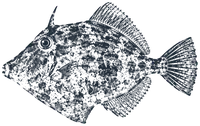
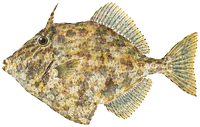
新しいアプリアイコン（ChatGPTで作成・4ツール共通の紺地）、魚拓アイコンをカラーに

diff --git a/index.html b/index.html
@@ -337,7 +337,7 @@
   <p class="credit">
     気象・海象データ：Powered by <a href="https://open-meteo.com/" target="_blank" rel="noopener">Open-Meteo.com</a>（<a href="https://creativecommons.org/licenses/by/4.0/" target="_blank" rel="noopener">CC BY 4.0</a>）<br>
     潮汐データ：<a href="https://tide736.net/" target="_blank" rel="noopener">tide736.net</a>（気象庁 潮位表をもとに算出）<br>
-    <span style="opacity:.7">版 2026-10-23 v13（魚拓アイコン・水深マップへのリンク・折りたたみ）</span>
+    <span style="opacity:.7">版 2026-10-23 v14（カラー魚拓・新しいアプリアイコン）</span>
   </p>
 </div>
 

diff --git a/sw.js b/sw.js
@@ -1,7 +1,7 @@
 // カヤック釣果予報 サービスワーカー：アプリの外枠をキャッシュし、電波の弱い出艇地点でも起動できるようにする。
 // アプリを更新したら CACHE の番号を上げる（古いキャッシュを破棄するため）。
 // ※予報データ(Open-Meteo/tide736)は別オリジンなのでキャッシュせず、常に最新をネットから取る。
-const CACHE = "fish-forecast-v10";
+const CACHE = "fish-forecast-v11";
 const ASSETS = [
   "./", "./index.html", "./manifest.webmanifest", "./stations.js",
   "./icon-192.png", "./icon-512.png", "./icon-180.png",

diff --git a/gyotaku/cut.py b/gyotaku/cut.py
@@ -1,10 +1,10 @@
-"""ChatGPTで作った魚拓の4匹シート（2×2）を、1匹ずつの透明PNGに切り分ける。
+"""ChatGPTで作ったカラー魚拓の4匹シート（2×2）を、1匹ずつの透明WebPに切り分ける。
 
-使い方: python3 cut.py   （raw/sheetN.png があるぶんだけ処理する）
-出力:   <魚のid>.webp（墨の部分だけ残し、白い背景は透明にする）
+使い方: python3 cut.py   （raw/colorN.png があるぶんだけ処理する）
+出力:   <魚のid>.webp（白い紙の部分は透明にし、魚の色はそのまま残す）
 """
 from pathlib import Path
-from PIL import Image, ImageOps
+from PIL import Image
 
 HERE = Path(__file__).parent
 # シートごとの並び（左上・右上・左下・右下）。釣果予報の魚のidと同じ名前にする
@@ -14,38 +14,48 @@ SHEETS = {
     3: ["madai", "suzuki", "chinu", "kamasu"],
     4: ["mebaru", "kawahagi", "maika", "akamutsu"],
 }
-INK = (28, 39, 51)        # 墨の色（ツールの文字色に合わせた濃紺寄りの黒）
-OUT_W = 200               # 出力の横幅（表示は約90pxだが、高精細画面用に2倍強）
+OUT_W = 200   # 出力の横幅（表示は約90pxだが、高精細画面用に2倍強）
+
+
+def unpaper(cell):
+    """白い紙に近い所ほど透明にし、色は紙の白さを取り除いた本来の色に戻す。"""
+    out = []
+    for r, g, b in cell.getdata():
+        a = max(0, min(255, int((255 - min(r, g, b) - 12) * 1.6)))
+        if a == 0:
+            out.append((0, 0, 0, 0))
+            continue
+        f = a / 255
+        out.append(tuple(max(0, min(255, int((v - (1 - f) * 255) / f))) for v in (r, g, b)) + (a,))
+    im = Image.new("RGBA", cell.size)
+    im.putdata(out)
+    return im
 
 
 def cut_sheet(n, ids):
-    src = HERE / "raw" / f"sheet{n}.png"
+    src = HERE / "raw" / f"color{n}.png"
     if not src.exists():
         return []
-    im = Image.open(src).convert("L")
-    w, h = im.size
+    sheet = Image.open(src).convert("RGB")
+    w, h = sheet.size
     done = []
     for i, fid in enumerate(ids):
         x0, y0 = (i % 2) * w // 2, (i // 2) * h // 2
-        cell = im.crop((x0, y0, x0 + w // 2, y0 + h // 2))
-        # 墨の濃さ＝透明度（白は完全に透明、黒ほど不透明）
-        alpha = ImageOps.invert(cell).point(lambda v: 0 if v < 40 else min(255, int((v - 40) * 1.4)))
-        box = alpha.point(lambda v: 255 if v > 60 else 0).getbbox()
+        im = unpaper(sheet.crop((x0, y0, x0 + w // 2, y0 + h // 2)))
+        box = im.getchannel("A").point(lambda v: 255 if v > 60 else 0).getbbox()
         if not box:
             continue
         pad = 6
-        box = (max(0, box[0] - pad), max(0, box[1] - pad), min(cell.width, box[2] + pad), min(cell.height, box[3] + pad))
-        a = alpha.crop(box)
-        out = Image.new("RGBA", a.size, INK + (0,))
-        out.putalpha(a)
-        if out.width > OUT_W:
-            out = out.resize((OUT_W, round(out.height * OUT_W / out.width)), Image.LANCZOS)
-        out.save(HERE / f"{fid}.webp", "WEBP", quality=82, method=6)   # 軽いWebP（透明あり）
-        done.append((fid, out.size))
+        box = (max(0, box[0] - pad), max(0, box[1] - pad), min(im.width, box[2] + pad), min(im.height, box[3] + pad))
+        im = im.crop(box)
+        if im.width > OUT_W:
+            im = im.resize((OUT_W, round(im.height * OUT_W / im.width)), Image.LANCZOS)
+        im.save(HERE / f"{fid}.webp", "WEBP", quality=82, method=6)
+        done.append((fid, im.size))
     return done
 
 
 if __name__ == "__main__":
     for n, ids in SHEETS.items():
         for fid, size in cut_sheet(n, ids):
-            print(f"sheet{n}: {fid} {size[0]}x{size[1]}")
+            print(f"color{n}: {fid} {size[0]}x{size[1]}")
